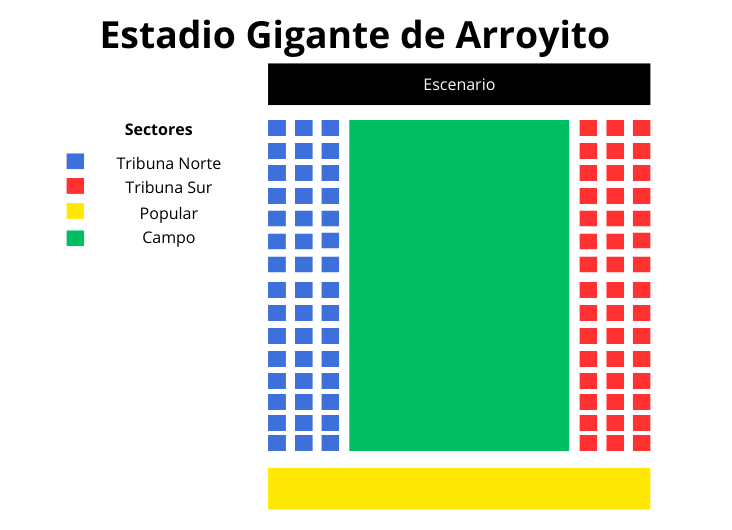
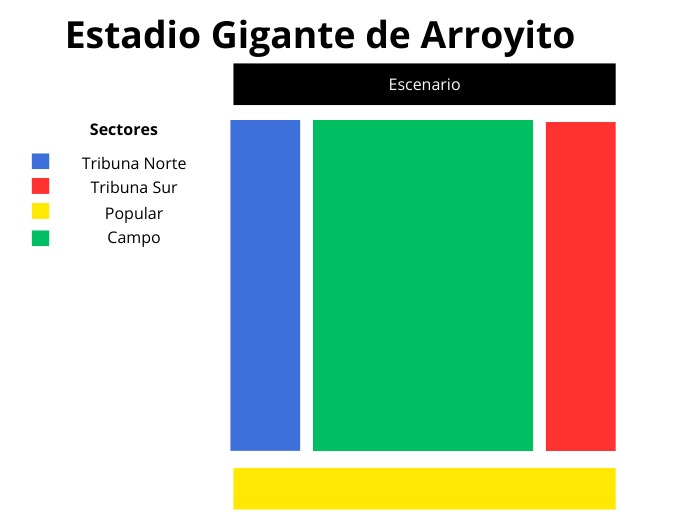
Agregado de estadios + Adaptacion estilos al cambio de estadio

Changed region(s): [[0.09, 0.0305, 0.9, 0.9771], [0.03, 0.2137, 0.3, 0.4885]]

diff --git a/react-app/src/pages/userHomePage/styles/EventDetailPage.module.css b/react-app/src/pages/userHomePage/styles/EventDetailPage.module.css
@@ -107,7 +107,7 @@
 .stadiumPlanContainer {
   position: relative;
   width: 100%;
-  height: auto;            /* 🔥 dejamos que el alto se ajuste automáticamente */
+  height: auto;         
   margin: 1rem 0 1.5rem 0;
   border: 1px solid #e0e0e0;
   border-radius: 8px;
@@ -292,33 +292,33 @@
 
 /* Posiciones y colores por sector (editá libremente) */
 .sector-1 { /* Tribuna Norte - izquierda, azul */
-  top: 22%;
-  left: 36%;
-  width: 11%;
+  top: 23%;
+  left: 32.75%;
+  width: 10%;
   height: 63.5%;
   background: rgba(88,115,209,0.35);
 }
 
 .sector-2 { /* Tribuna Sur - derecha, rojo */
-  top: 22%;
-  left: 78.5%;
-  width: 11%;
+  top: 23%;
+  left: 78%;
+  width: 10%;
   height: 63.5%;
   background: rgba(236,72,72,0.35);
 }
 
 .sector-3 { /* Popular - abajo, amarillo */
-  top: 88%;
-  left: 36%;
-  width: 53%;
-  height: 8%;
+  top: 89%;
+  left: 33%;
+  width: 55%;
+  height: 8.25%;
   background: rgba(234,179,8,0.35);
 }
 
 .sector-4 { /* Campo - centro, verde */
-  top: 22%;
-  left: 47.5%;
-  width: 30.5%;
+  top: 23%;
+  left: 45%;
+  width: 31%;
   height: 63.5%;
   background: rgba(16,185,129,0.35);
 }
